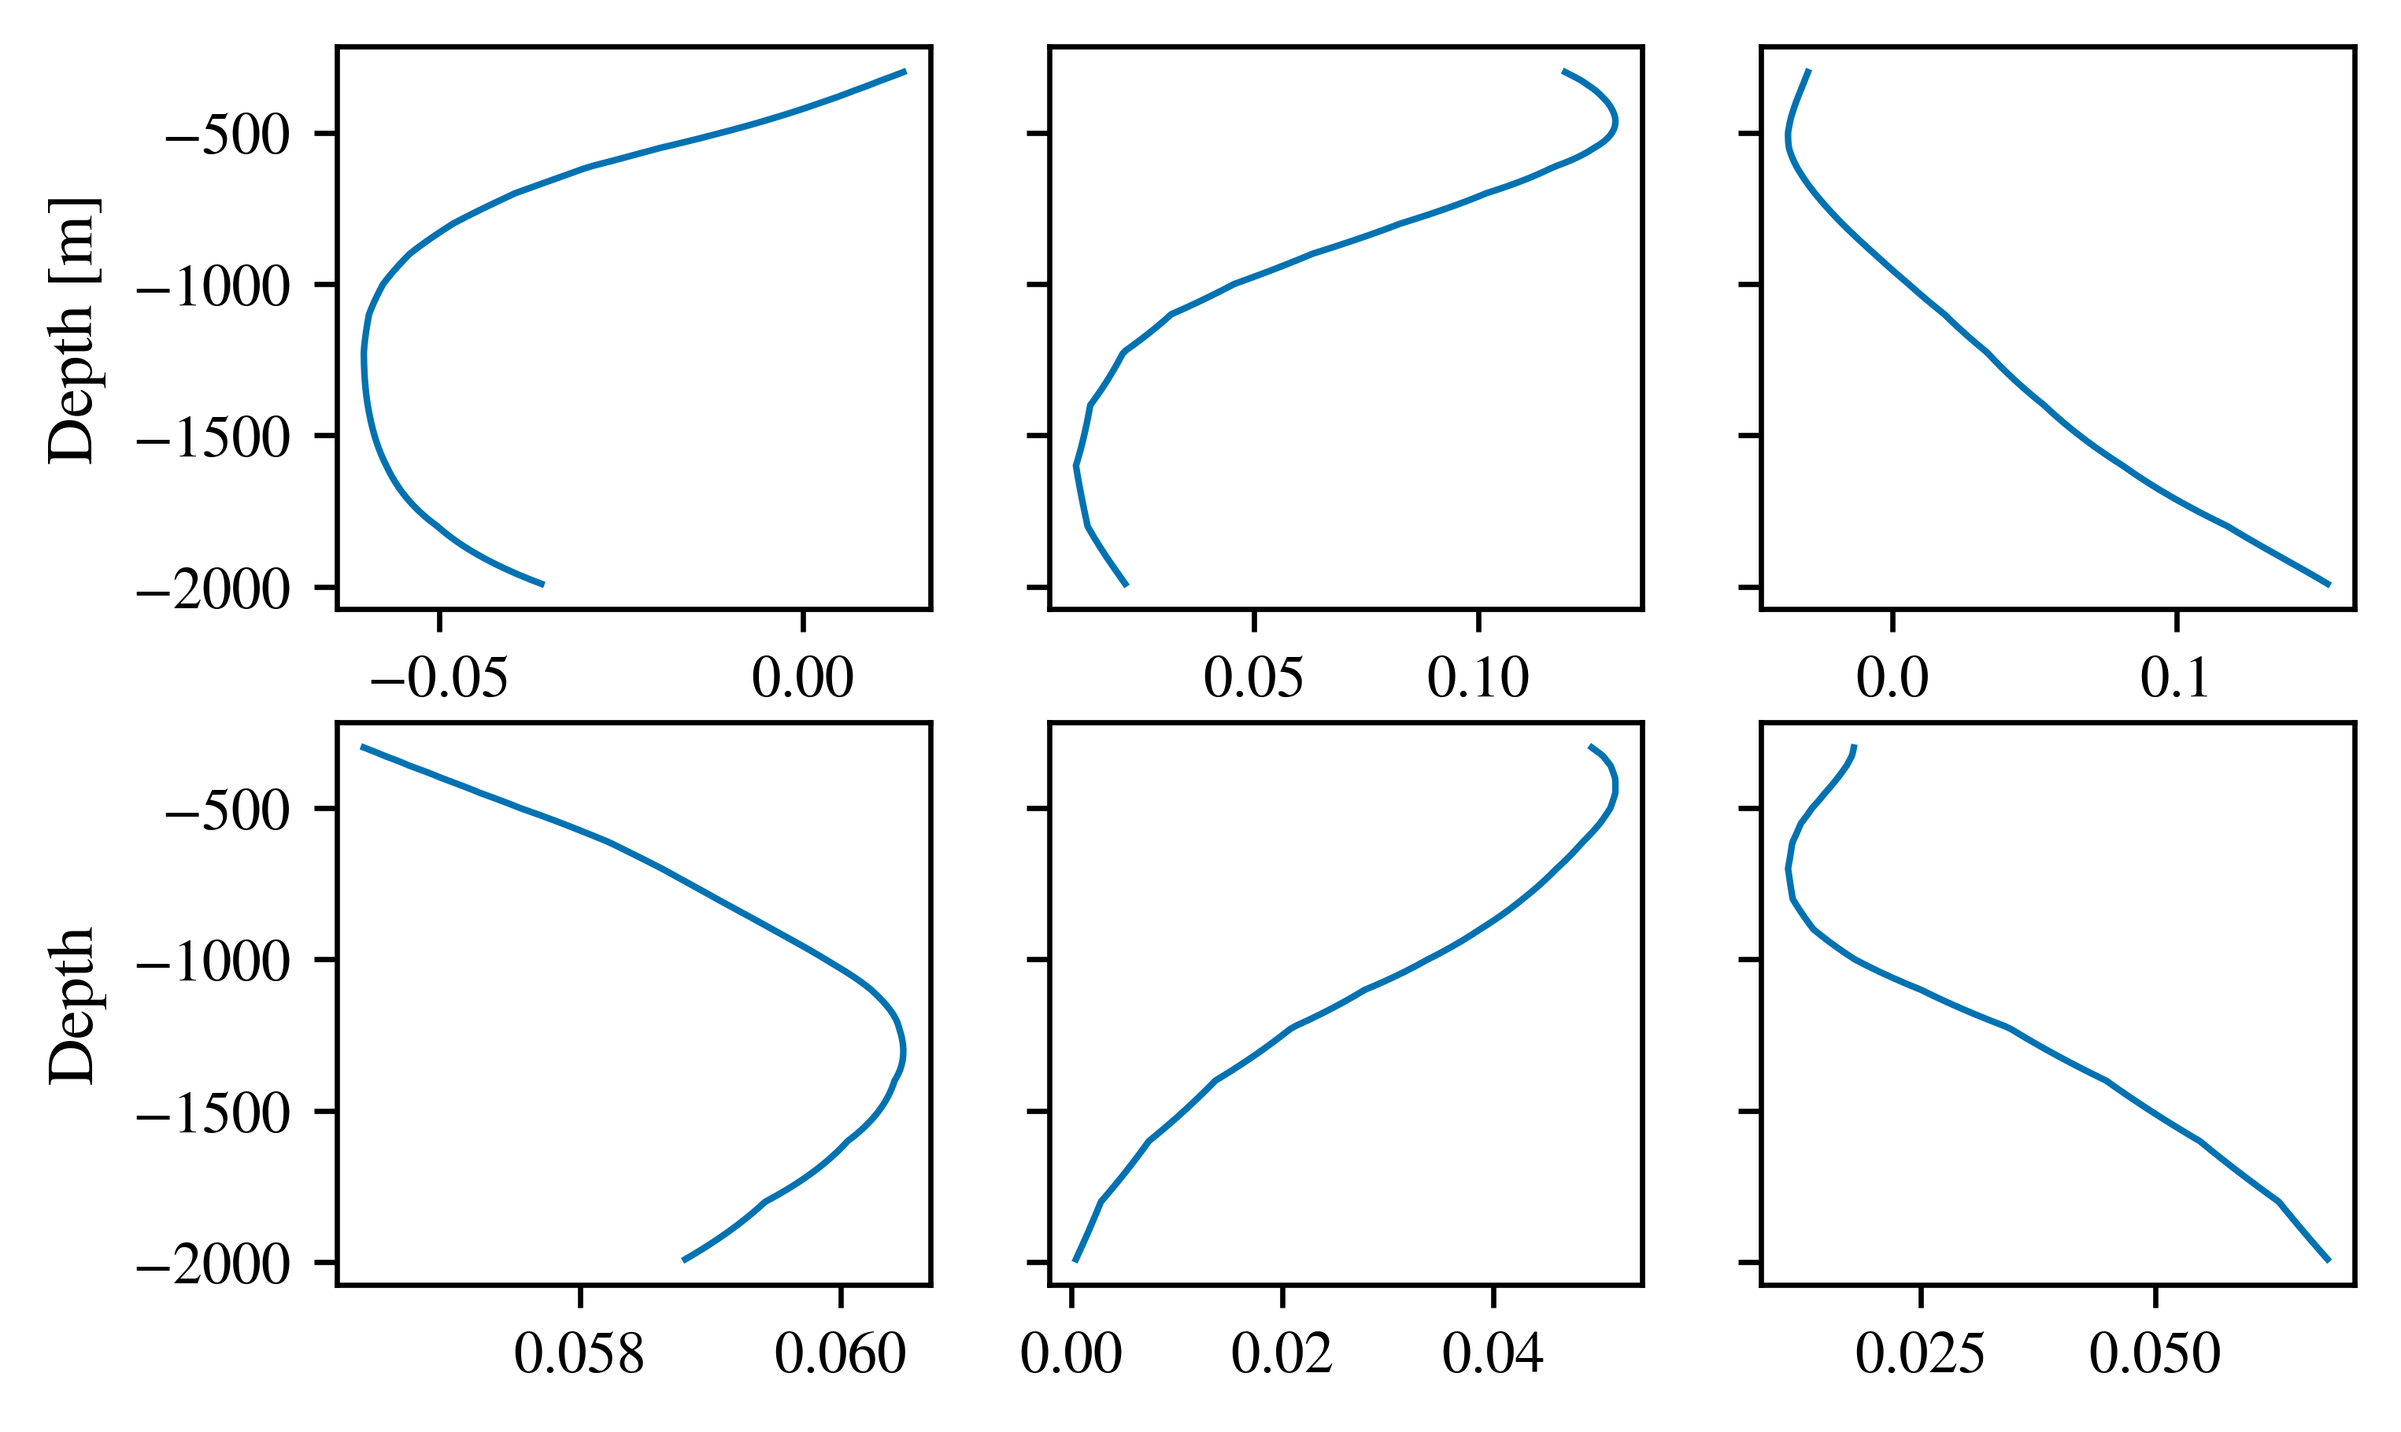
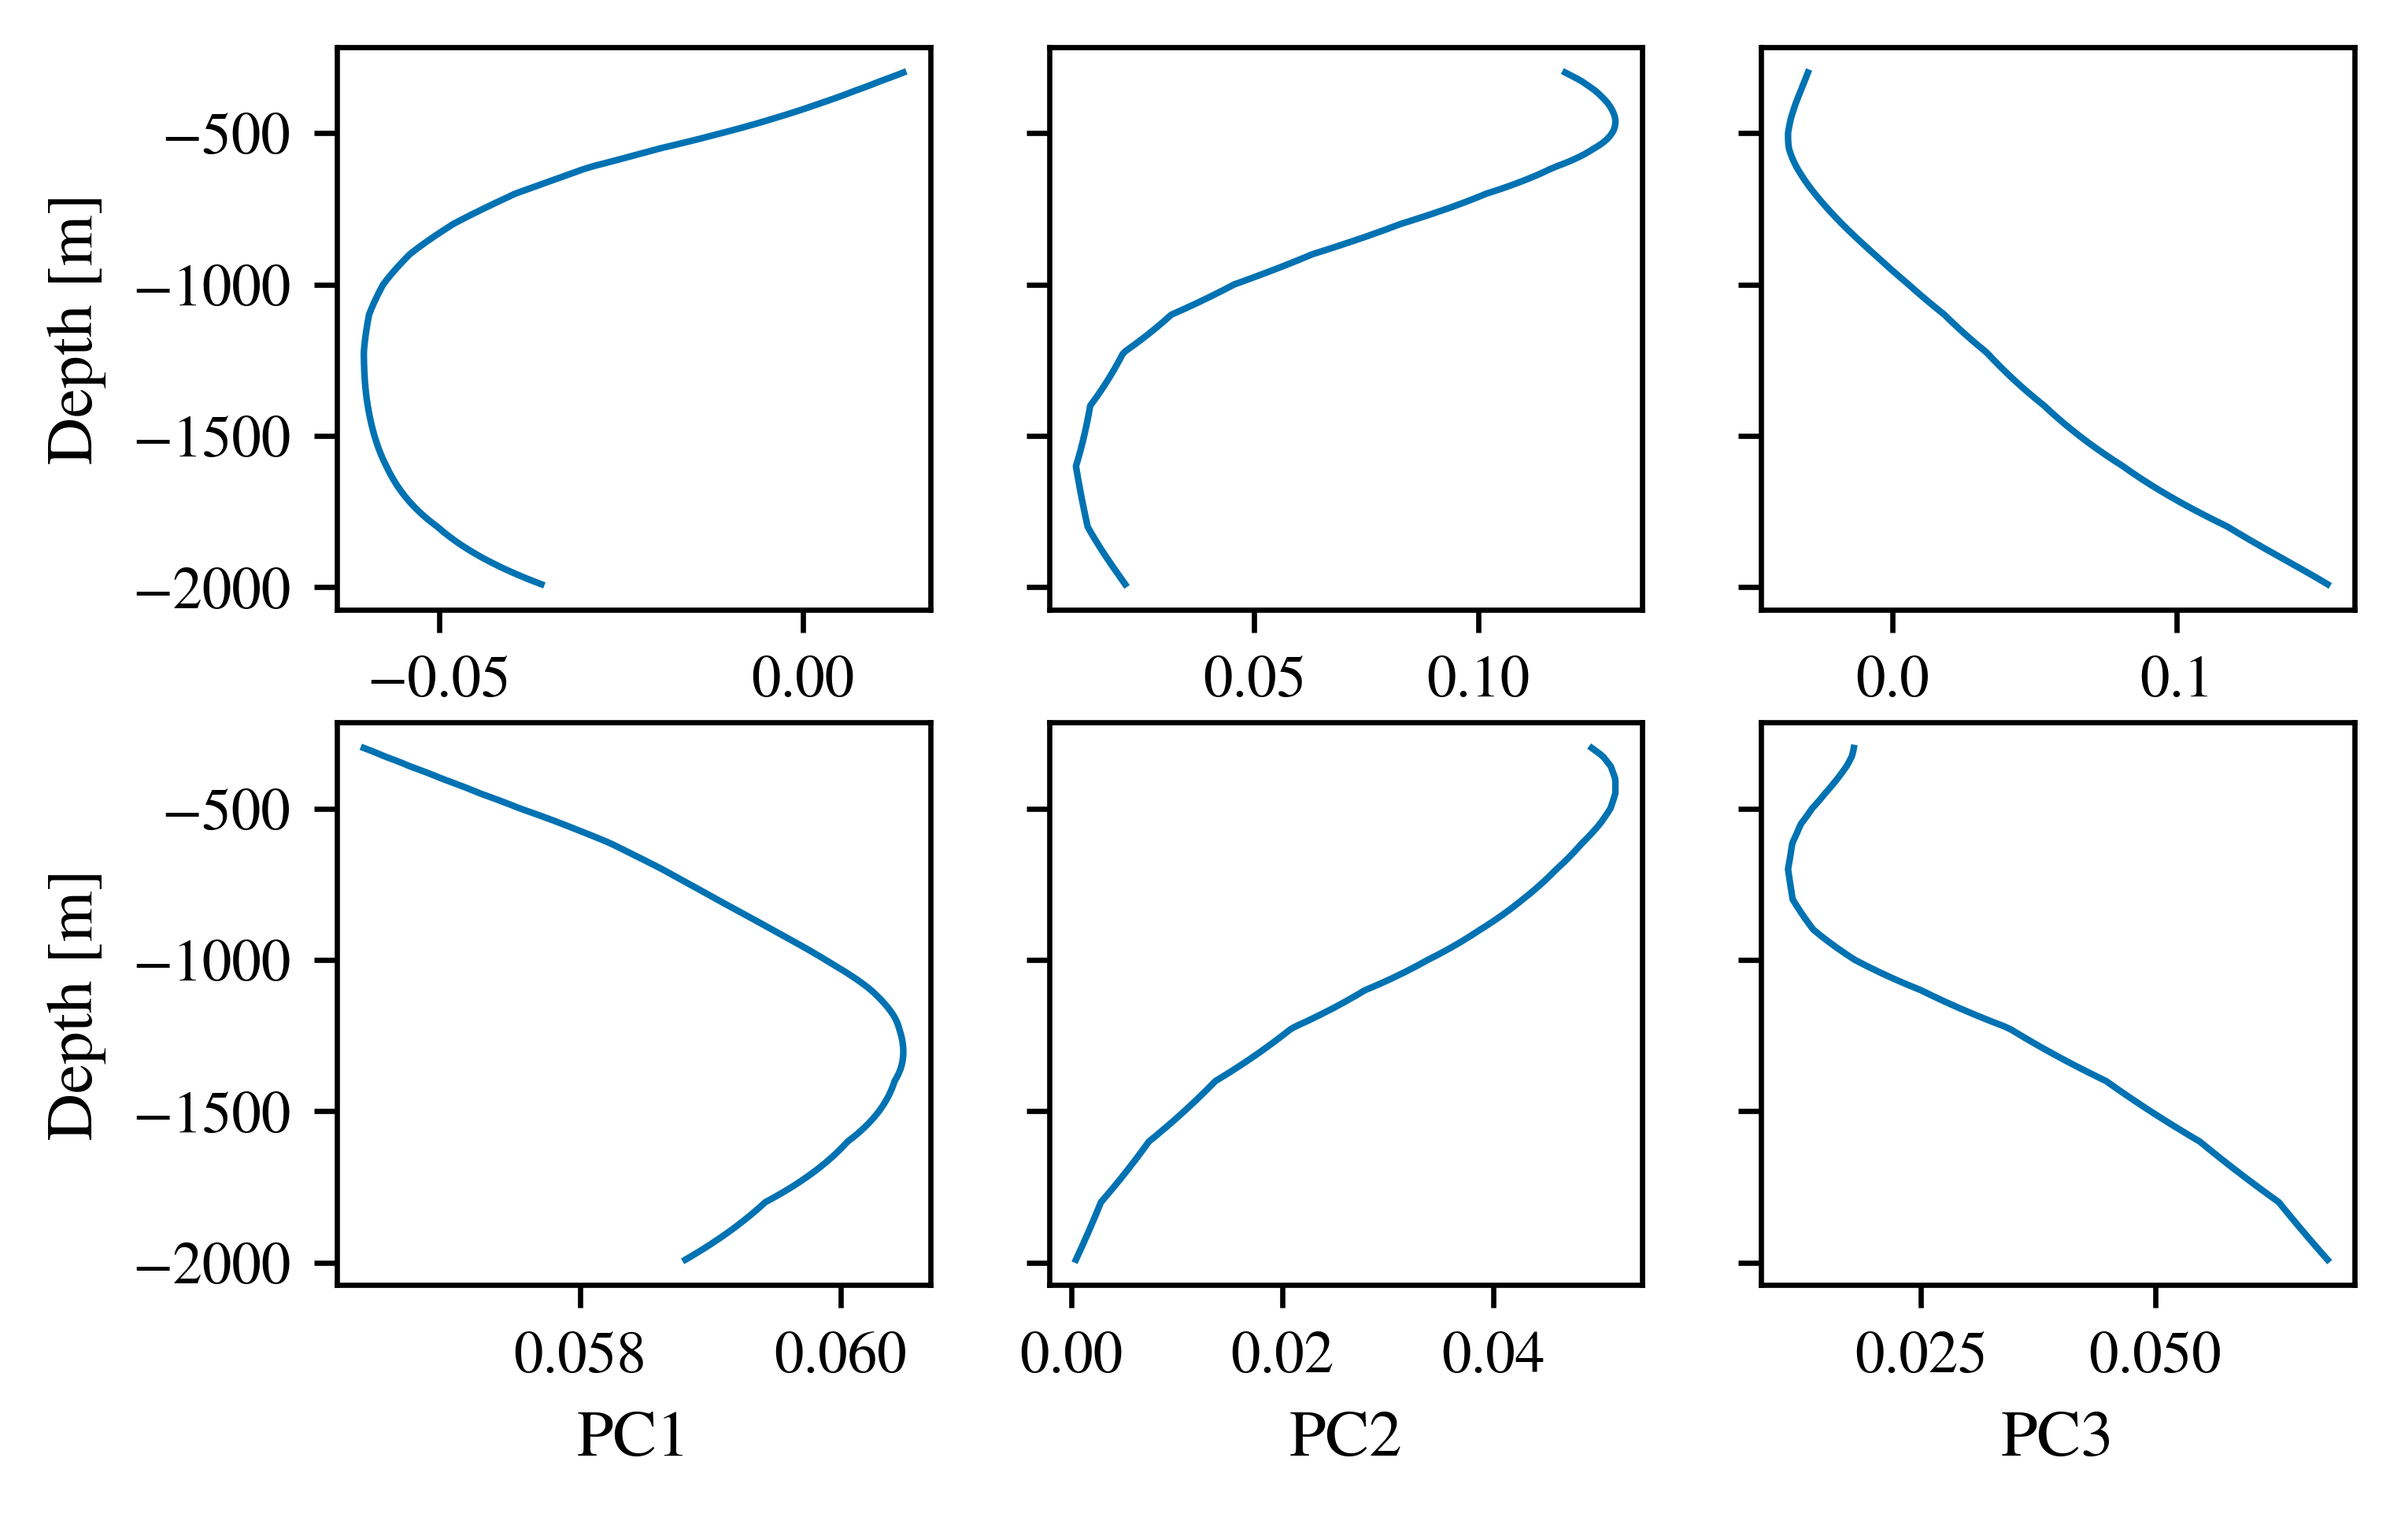
ext: adding pc1

diff --git a/src/make_figures.py b/src/make_figures.py
@@ -109,7 +109,12 @@ def make_all_figures() -> None:
     axs[1, 0].plot(pcm._reducer["all"].components_[0, lz:], zs)
     axs[1, 1].plot(pcm._reducer["all"].components_[1, lz:], zs)
     axs[1, 2].plot(pcm._reducer["all"].components_[2, lz:], zs)
-    axs[1, 0].set_ylabel("Depth")
+    axs[1, 0].set_ylabel("Depth [m]")
+    axs[1, 0].set_xlabel("PC1")
+    axs[1, 1].set_xlabel("PC2")
+    axs[1, 2].set_xlabel("PC3")
+    axs[0, 1].set_title("Temperature [dimensionless]")
+    axs[1, 1].set_title("Salinity [dimensionless]")
     plt.savefig("figures/RUN_010_pca_plot.png")
     plt.clf()
 
